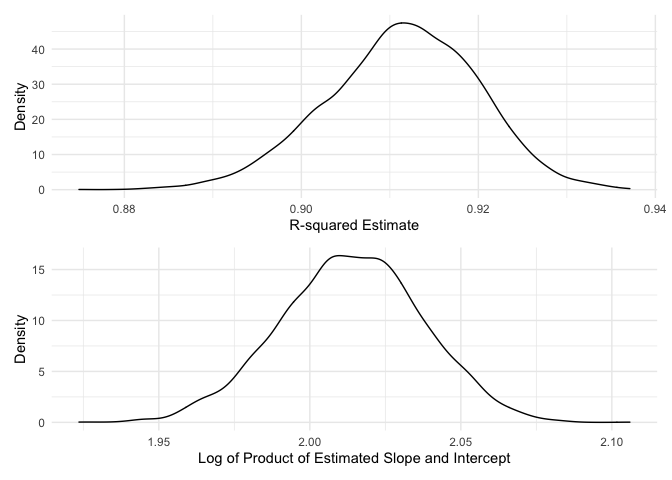
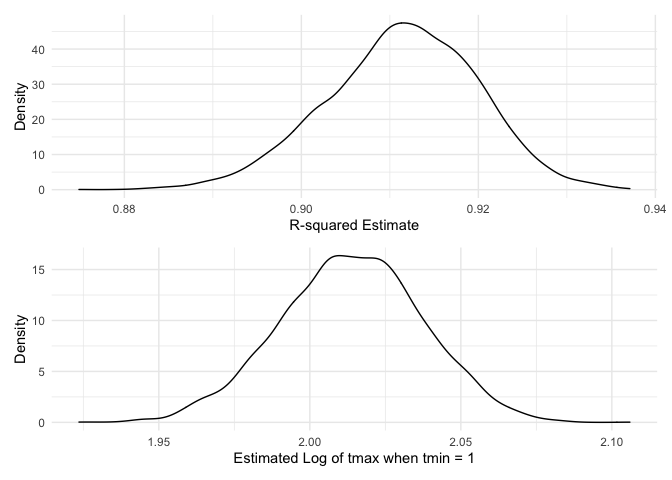
Problem 1: 1. updated description of residual plot
Problem 2:
1. updated labels and commentary for the estimated log of tmax when tmin equals one

Changed region(s): [[0.2812, 0.9375, 0.7812, 0.9688]]

diff --git a/p8105_hw6_mtr2143.md b/p8105_hw6_mtr2143.md
@@ -145,12 +145,13 @@ birthweight_df %>%
 
 ![](p8105_hw6_mtr2143_files/figure-gfm/plot%20of%20model%20residuals%20against%20fitted%20values-1.png)<!-- -->
 
-The above plot shows the residuals vs the predicted values. For the
-assumption of linearity to be hold, we’d expect the points to be
-distributed randomly around y = 0, but that is not true of this model.
-There also appears to be outliers present in our data given the points
-that are far outside the main clustering of where the predicted value is
-between 2500 and 2500 and the residual is 0.
+The above plot shows the residuals vs the predicted values. There
+appears to be outliers present in our data given the points that are far
+outside the main cluster of observations. There also appears to be
+somewhat of a vague pattern to this plot that nearly resembles a
+parabola on its side. This could be an indication that we are in
+violation of the linear regression assumption about the independence of
+the residuals.
 
 ``` r
 set.seed(32694)
@@ -251,7 +252,7 @@ log_b0_b1_plot <-
   boot_straps %>% 
     ggplot(aes(x = log_b0_b1)) + 
     geom_density() +
-    xlab("Log of Product of Estimated Slope and Intercept") + ylab("Density")
+    xlab("Estimated Log of tmax when tmin = 1") + ylab("Density")
 
 r_squared_plot / log_b0_b1_plot
 ```
@@ -262,8 +263,8 @@ The distributions of r-squared and the log of the product of the
 estimated slope and intercept per model appear above. Because of the
 bootstrapping, we can see that the distributions of both estimates
 follow a relatively normal distribution. The center for the R-squared
-estimate appears to be around 0.91, and the center for the log of the
-product of the estimated slope and intercept appears to be around 2.01.
+estimate appears to be around 0.91, and the center for the log of tmax
+when tmin = 1 appears to be around 2.02.
 
 ``` r
 ci_df <-
@@ -283,7 +284,7 @@ ci_df <-
 ci_df %>% 
   knitr::kable(
     digits = 3,
-    caption = "95% Confidence Intervals for R-Squared and Log of Product of Estimated Slope and Intercept"
+    caption = "95% Confidence Intervals for R-Squared and Estimated Log of tmax when tmin = 1"
   )
 ```
 
@@ -292,5 +293,5 @@ ci_df %>%
 | r.squared     |       0.894 |       0.927 |
 | log_b0_b1     |       1.966 |       2.059 |
 
-95% Confidence Intervals for R-Squared and Log of Product of Estimated
-Slope and Intercept
+95% Confidence Intervals for R-Squared and Estimated Log of tmax when
+tmin = 1
